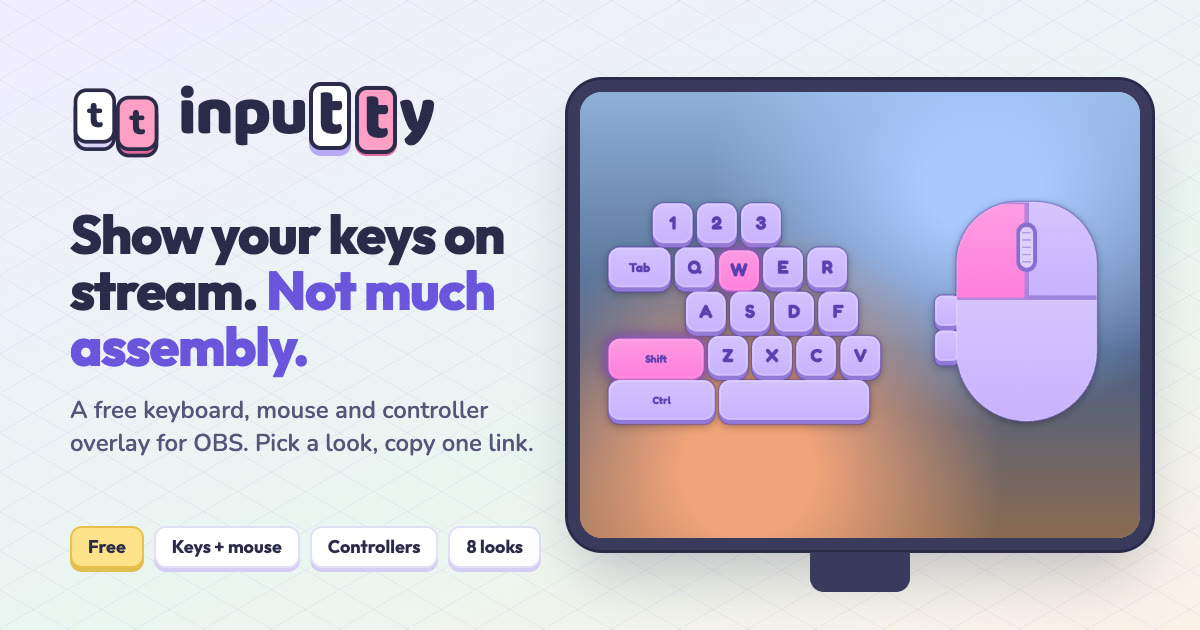
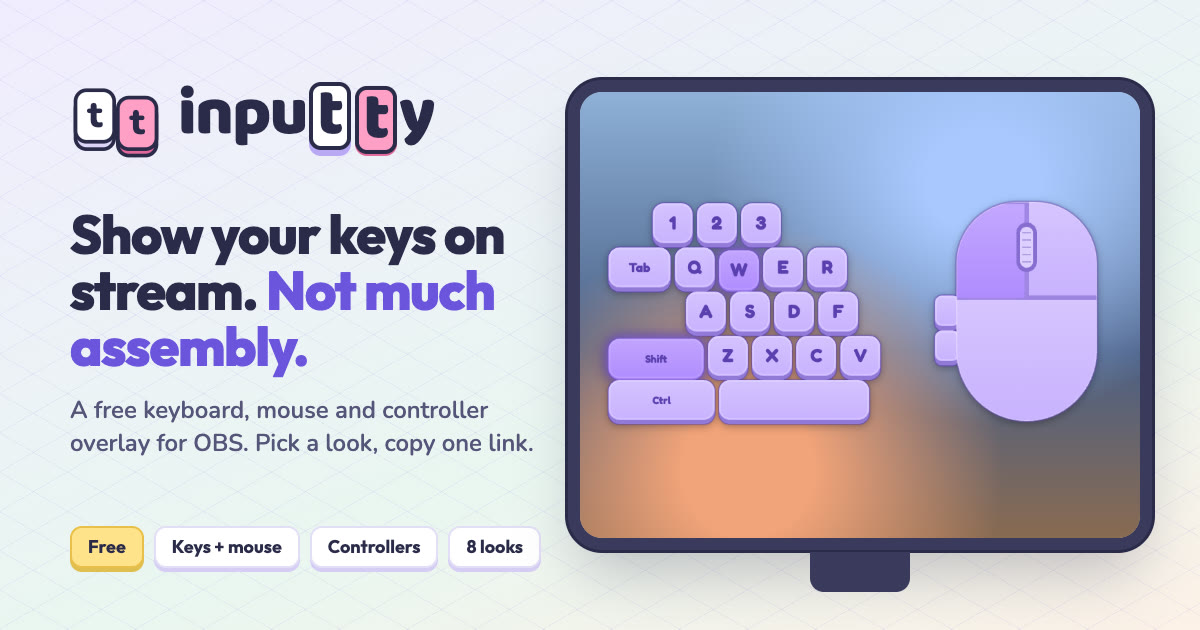
Inputty: Zojie's pressed colour is #b18cff (the owner). The swatch it replaces in the pressed-colour row is now a periwinkle; the link preview and widgets-page scene re-rendered

Changed region(s): [[0.7708, 0.3016, 0.8633, 0.4825], [0.4933, 0.5127, 0.5858, 0.6032], [0.5858, 0.3921, 0.6475, 0.4825]]

diff --git a/public/inputty/lib/looks.js b/public/inputty/lib/looks.js
@@ -3,7 +3,7 @@
 // and its accent (what a pressed key turns). Zojie is this widget's own: Zojie Raine's pastel storm-kitsune palette.
 (() => {
   const THEMES = {
-    zojie:   { label: 'Zojie',   edge: '5b3fb0', key: 'c9b2ff', hi: 'fdfaff', accent: 'ff7fdc', frame: 'none', font: 'Fredoka', weight: 700, radius: 16, glow: 0.6 },
+    zojie:   { label: 'Zojie',   edge: '5b3fb0', key: 'c9b2ff', hi: 'fdfaff', accent: 'b18cff', frame: 'none', font: 'Fredoka', weight: 700, radius: 16, glow: 0.6 },
     neutral: { label: 'Neutral', edge: '15171d', key: '6b7385', hi: 'f6f7fa', accent: '4f8cff', frame: 'none', font: 'system-ui', weight: 800, radius: 10 },
     light:   { label: 'Light',   edge: '16181d', key: 'a3a9b4', hi: 'ffffff', accent: 'ff5a36', frame: 'none', lightBg: true, font: 'system-ui', weight: 800, radius: 10, glow: 0.4 },
     neon:    { label: 'Neon',    edge: '061019', key: '24506f', hi: 'c4eaff', accent: '22e5ff', frame: 'none', font: 'Orbitron', weight: 700, radius: 2, ring: 'accent', glow: 0.95 },

diff --git a/public/inputty/lib/guide.js b/public/inputty/lib/guide.js
@@ -313,7 +313,7 @@
       },
       /** the pressed colour: the theme's own, a few swatches, any colour */
       accents(el) {
-        const SW = ['', 'ff7fdc', 'b18cff', '5fd4ff', '6ff0b0', 'ffe066', 'ff9a3d', 'ff5a5a', 'ffffff'];
+        const SW = ['', 'ff7fdc', '8fa8ff', '5fd4ff', '6ff0b0', 'ffe066', 'ff9a3d', 'ff5a5a', 'ffffff'];
         const draw = () => {
           const own = L.THEMES[s.theme].accent;
           el.innerHTML = SW.map((c) => `<button type="button" class="g-sw" data-c="${c}" aria-pressed="${(s.accent || '') === c}" title="${c ? '#' + c : "The theme's own"}" style="--c:#${c || own}">${c ? '' : '★'}</button>`).join('')

diff --git a/public/inputty/lib/play.css b/public/inputty/lib/play.css
@@ -4,7 +4,7 @@
 [data-theme=zojie] {
   --frame: 3px;
   --bg: linear-gradient(180deg, rgb(196 172 255 / var(--bgo, 1)), rgb(224 206 255 / var(--bgo, 1))); --panel: #f3e8ff; --slot: #e7d6ff; --text: #5b3fb0; --muted: #8f78d6;
-  --accent: #ff7fdc; --accent-ink: #4a2a9a;
+  --accent: #b18cff; --accent-ink: #3a1f8a;
   --tile: #d5c0ff; --tile-text: #5b3fb0; --tile-edge: #ebc8fb; --radius: 18px;
   --font: "Fredoka", "Chakra Petch", system-ui, sans-serif; --display: "Fredoka", system-ui, sans-serif; --display-weight: 700;
   --bar: linear-gradient(180deg, #ffd3ff, #ffc0fb); --bar-ink: #fffdf0; --bar-stroke: #a77de8;

diff --git a/public/inputty/index.html b/public/inputty/index.html
@@ -158,7 +158,7 @@
   .peek { transition: opacity .3s; }
   .peek.gone { opacity: 0; }
   .key .t { transition: fill .08s; }
-  .key.lit .t { fill: var(--key-acc, #ff7fdc); }
+  .key.lit .t { fill: var(--key-acc, #b18cff); }
   .led { fill: #8d8aab; transition: fill .3s; }
   .led.on { fill: #6ef0b2; filter: drop-shadow(0 0 3px #6ef0b2); }
   .cable { fill: none; stroke: var(--violet); stroke-width: 4; stroke-linecap: round; stroke-linejoin: round; transition: stroke-dashoffset 1.3s ease .25s; }
